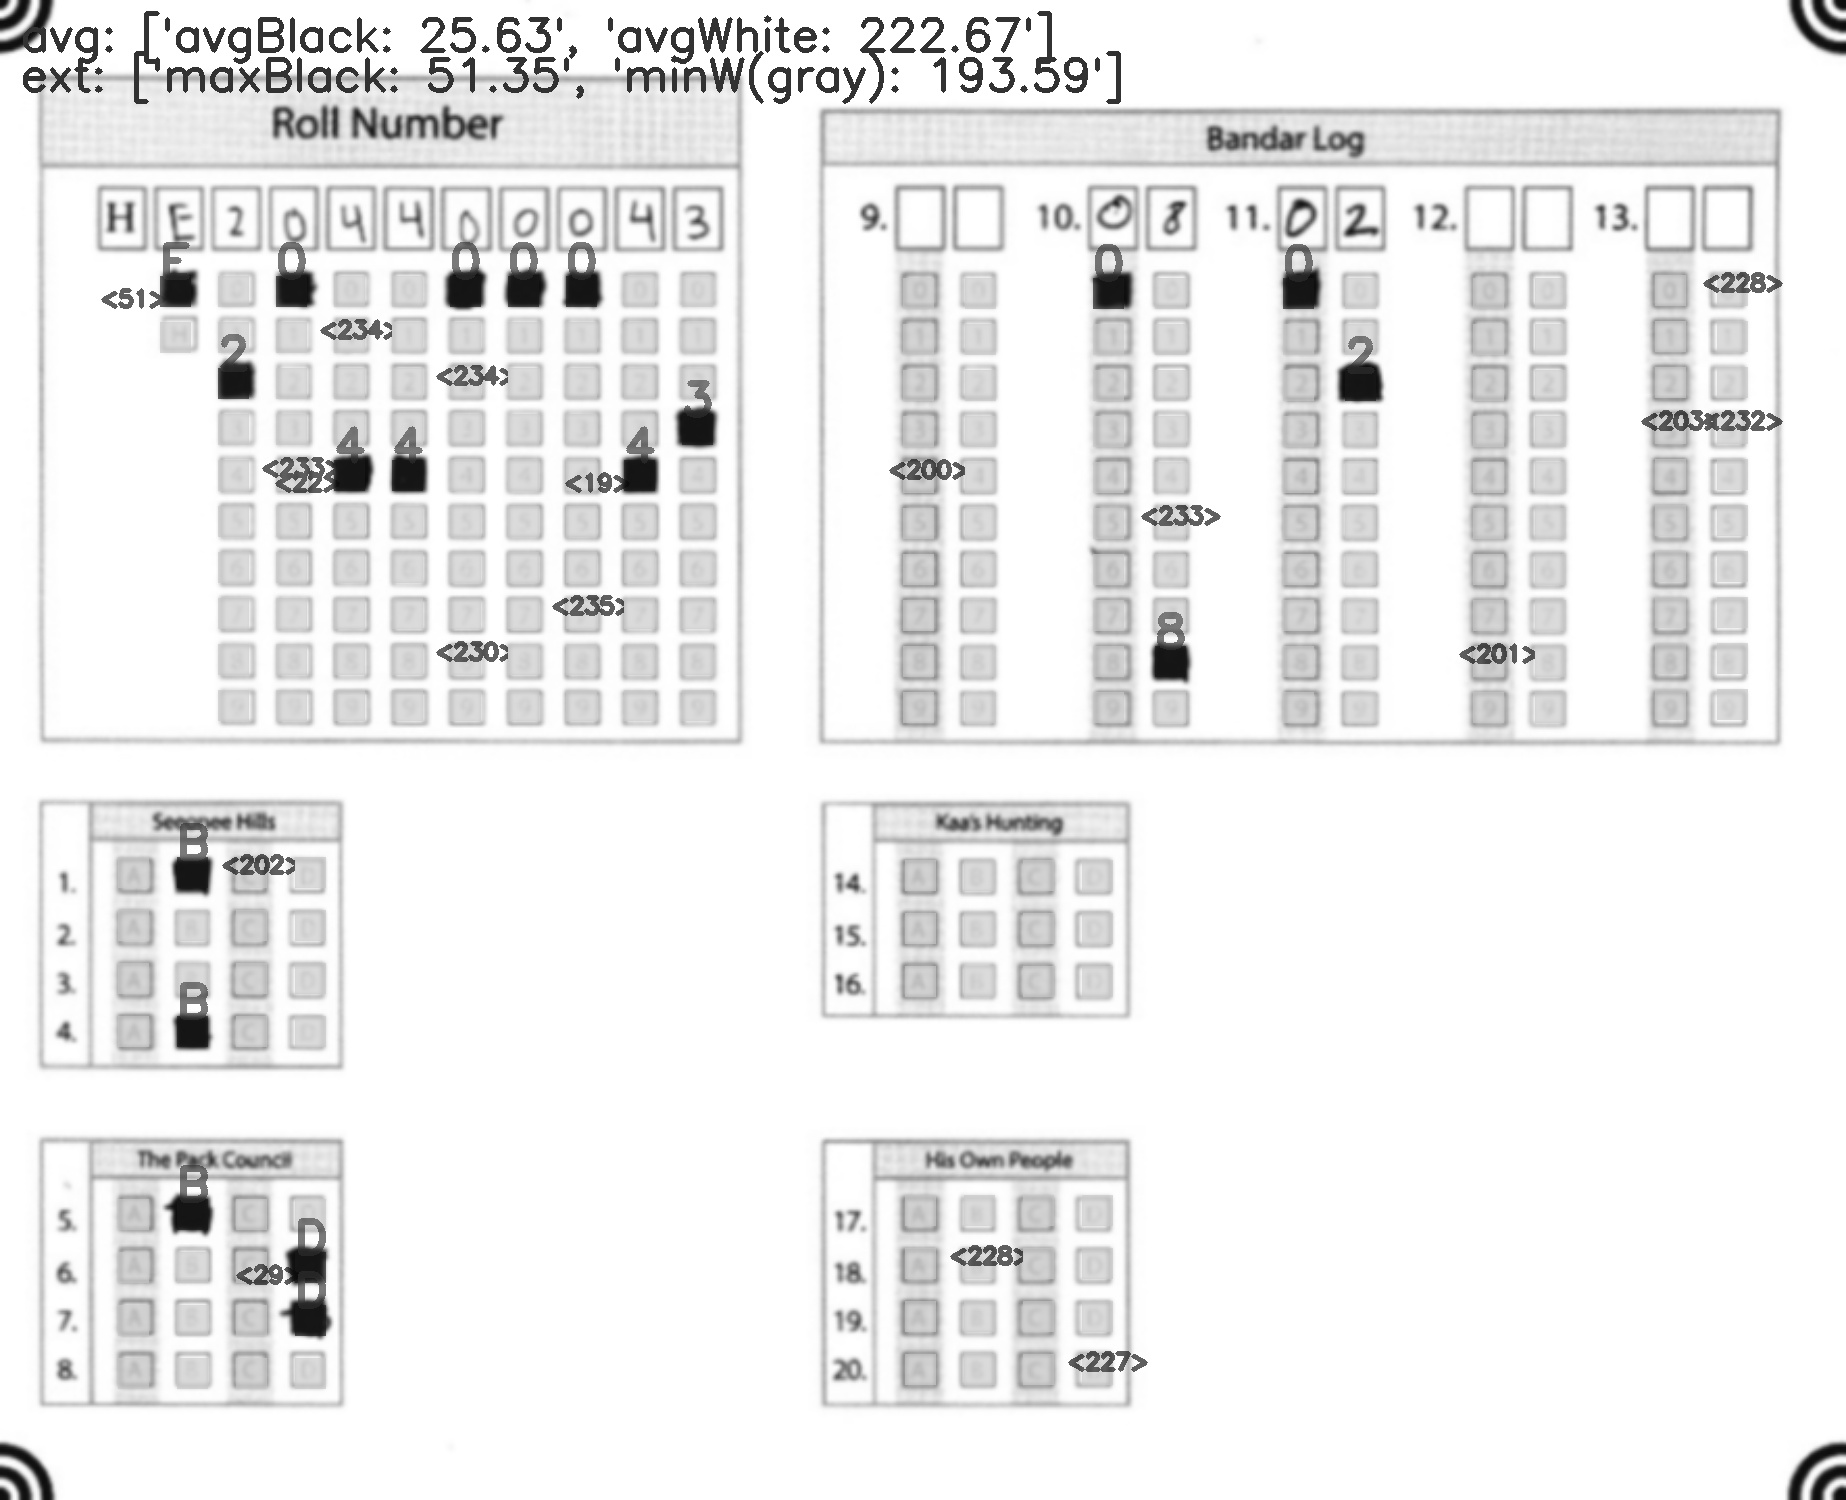
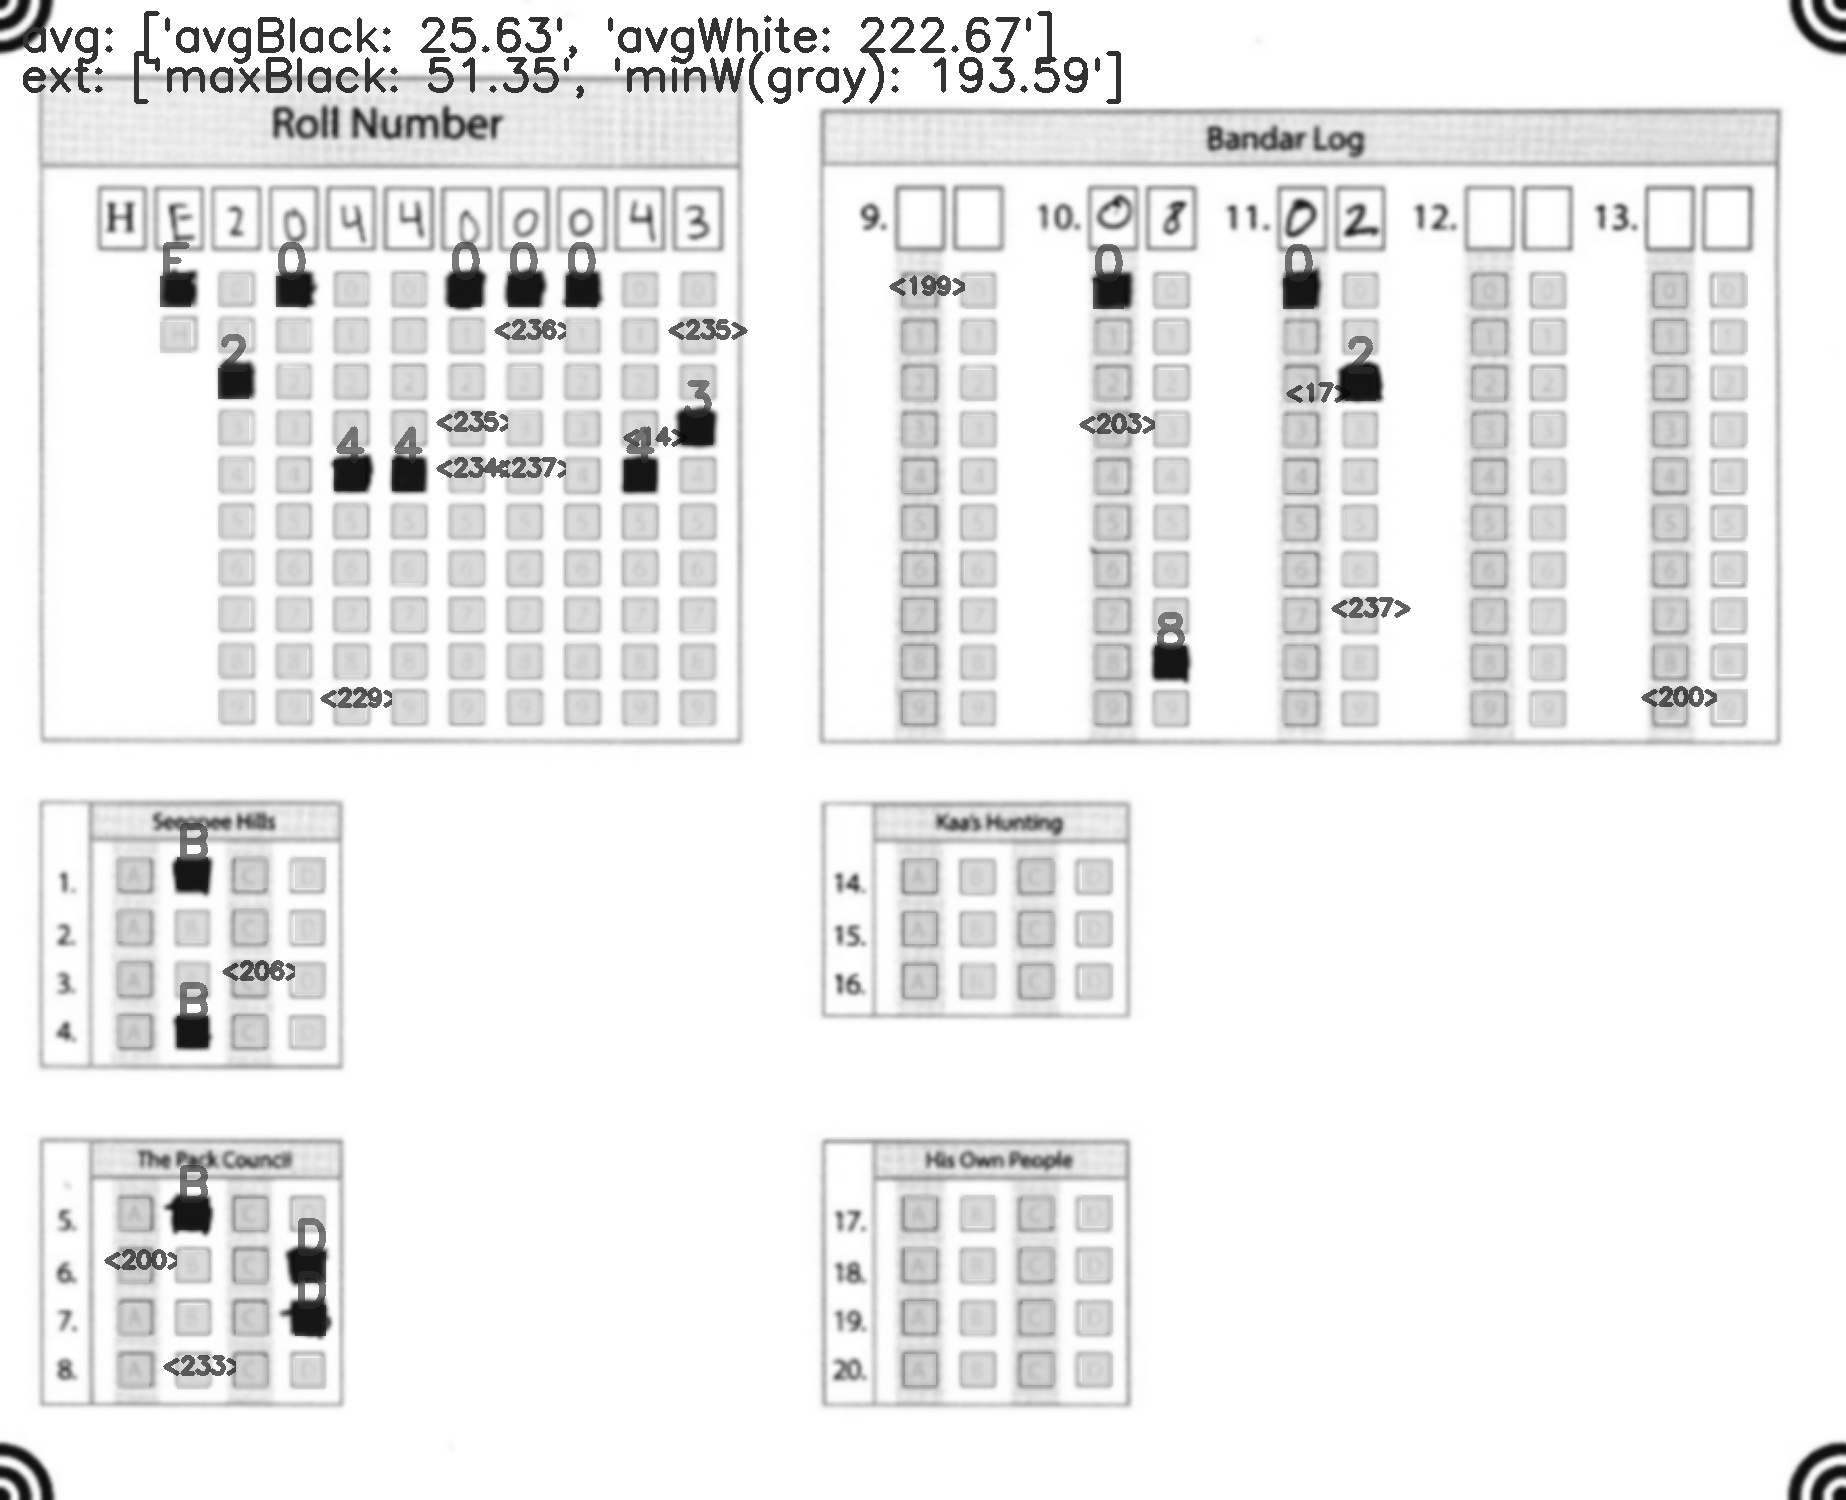
Per-image thresholding done

diff --git a/src/utils.py b/src/utils.py
@@ -441,9 +441,8 @@ def readResponse(squad,TEMPLATE,boxDim,image,name,save=None,thresholdRead=127.5,
         mask = 255*np.ones(boxDim, np.uint8)
         lang = ['E','H']
         OMRresponse={}
-        grey,skyblue=(0,0,0),(200,150,150)
-        clrs=[skyblue,grey]
-        clrs=[grey,skyblue]
+        black,grey=(0,0,0),(200,150,150)
+        clrs=[grey,black]
 
         multimarked,multiroll=0,0
         alpha=0.65
@@ -458,55 +457,82 @@ def readResponse(squad,TEMPLATE,boxDim,image,name,save=None,thresholdRead=127.5,
             # f, axes = plt.subplots(len(TEMPLATE)//2,sharey=True, sharex=True)
             # f.canvas.set_window_title(name)
             # f.suptitle("Questionwise Histogram")
+        
         # (1500, 1846)
         print("Cropped dim", img.shape)
+        
+        # Find the first 'big' jump and set it as threshold:
+        QVals=[]
+        for Que in TEMPLATE:
+            for pt in Que.pts:
+                QVals.append(cv2.mean(img[  pt.y:pt.y+h, pt.x:pt.x+w ],mask)[0])
+        
+        QVals= sorted(QVals)
+        l=len(QVals)-1
+        max1,thr1=0,255
+        for i in range(1,l):
+            jump = QVals[i+1] - QVals[i-1]
+            if(jump > max1):
+                max1=jump
+                thr1=QVals[i-1] + jump/2.7
+        # Make use of the fact that the JUMP_DELTA between values at detected jumps would be atleast 20
+        max2,thr2=0,255
+        # Requires atleast 1 gray box to be present (Roll field will ensure this)
+        for i in range(1,l):
+            jump = QVals[i+1] - QVals[i-1]
+            d2 = QVals[i-1] + jump/2.7          
+            if(jump > max2 and JUMP_DELTA < abs(thr1-d2)):
+                max2=jump
+                thr2=d2
+        # Updated threshold:
+        thresholdRead = min(thr1,thr2)
+        if(showimglvl>=1):
+            f, ax = plt.subplots() 
+            ax.bar(range(len(QVals)),QVals);
+            thrline=ax.axhline(thresholdRead,color='red',ls='--')
+            plt.show()
+
         for ctr,Que in enumerate(TEMPLATE):
             Qboxvals=[]
             for pt in Que.pts:
                 ptXY=(pt.x,pt.y)
                 x,y=ptXY
-                #Done - Here add the scan region for (y:y+h,x:x+w)
-                xminus,xplus= x-int(w/2),x+w-int(w/2) #supplementary point.
-                xminus2,xplus2= x+int(w/2),x+w+int(w/2) #supplementary point.
-                yminus,yplus= y-int(h/2),y+h-int(h/2) #supplementary point.
-                yminus2,yplus2= y+int(h/3),y+h+int(h/3) #supplementary point.
-                # print(img.shape, xminus,xplus,y,y+h)
-                mean_color = cv2.mean(img[  y : y+h,x : x+w   ],mask)
-                mean_color2 = cv2.mean(img[ y : y+h,xminus : xplus    ],mask)
-                mean_color3 = cv2.mean(img[ y : y+h,xminus2 : xplus2  ],mask)
-                mean_color4 = cv2.mean(img[ yminus : yplus,x : x+w     ],mask)
-                mean_color5 = cv2.mean(img[ yminus2 : yplus2,x : x+w     ],mask)
-                boxval = mean_color[0]            
+
+                # Supplimentary points
+                xminus,xplus= x-int(w/2),x+w-int(w/2) 
+                xminus2,xplus2= x+int(w/2),x+w+int(w/2) 
+                yminus,yplus= y-int(h/2.7),y+h-int(h/2.7) 
+                yminus2,yplus2= y+int(h/2.7),y+h+int(h/2.7) 
+
+                #  This Plus method is better than having bigger box as gray would also get marked otherwise. Bigger box is rather an invalid alternative.
+                check_rects = [ 
+                    [y,y+h,x,x+w], 
+                    # [yminus,yplus,x,x+w], 
+                    # [yminus2,yplus2,x,x+w], 
+                    # [y,y+h,xminus,xplus], 
+                    # [y,y+h,xminus2,xplus2], 
+                ]
+                
+                detected=False
+                for rect in check_rects:
+                    boxval = cv2.mean(img[  rect[0]:rect[1] , rect[2]:rect[3] ],mask)[0]
+                    if(thresholdRead > boxval):
+                        detected=True
+                    # retimg = cv2.rectangle(retimg,(rect[2],rect[0]),(rect[3],rect[1]),clrs[int(detected)],bord)                    
+                    if(detected):break;
+
+                if(not detected): 
+                    #reset boxval to first rect 
+                    rect = check_rects[0]
+                    boxval = cv2.mean(img[  rect[0]:rect[1] , rect[2]:rect[3] ],mask)[0]
+                
                 #for hist
                 Qboxvals.append(boxval)
 
-                detected1=(thresholdRead > boxval)
-                threshold2 = thresholdRead + 38.25 if detected1 else thresholdRead
-                detected2=(threshold2 > mean_color2[0])
-                threshold3 = thresholdRead + 38.25 if (detected2 or detected1) else thresholdRead
-                detected3=(threshold3 > mean_color3[0])
-                threshold4 = thresholdRead + 38.25 if (detected3 or detected2 or detected1) else thresholdRead
-                detected4=(threshold4 > mean_color4[0])
-                threshold5 = thresholdRead + 38.25 if (detected4 or detected3 or detected2 or detected1) else thresholdRead
-                detected5=(threshold5 > mean_color5[0])
+                retimg = cv2.rectangle(retimg,(x,y),(x+w,y+h),clrs[int(detected)],bord)
 
-
-                # TODO: fix this- all detecteds should be considered
-                if(detected1):
+                if (detected):
                     blackTHRs.append(boxval)
-                else:
-                    whiteTHRs.append(boxval)
-                    
-                clr= black if detected1 else white
-
-                # retimg = cv2.rectangle(retimg,(x,yminus2),(x+w,yplus2),clrs[int(detected5)],bord)#-1 is for fill
-                # retimg = cv2.rectangle(retimg,(x,yminus),(x+w,yplus),clrs[int(detected4)],bord)#-1 is for fill
-                # retimg = cv2.rectangle(retimg,(xminus2,y),(xplus2,y+h),clrs[int(detected3)],bord)#-1 is for fill
-                # retimg = cv2.rectangle(retimg,(xminus,y),(xplus,y+h),clrs[int(detected2)],bord)#-1 is for fill
-
-                retimg = cv2.rectangle(retimg,(x,y),(x+w,y+h),clr,bord)#-1 is for fill
-
-                if (detected1 or detected2 or detected3 or detected4 or detected5):
         #             try:
                     q = Que.qNo
                     val = pt.val
@@ -536,14 +562,17 @@ def readResponse(squad,TEMPLATE,boxDim,image,name,save=None,thresholdRead=127.5,
                     cv2.putText(retimg,str(OMRresponse[key1][key2]),ptXY,cv2.FONT_HERSHEY_SIMPLEX, CV2_FONTSIZE,(50,20,10),5)
                     
                     if(np.random.randint(0,10)==0):
-                        cv2.putText(retimg,"<"+str(int(boxval))+">",(x-2*w,y+h),cv2.FONT_HERSHEY_SIMPLEX, CV2_FONTSIZE/2,(10,10,10),3)
+                        cv2.putText(retimg,"["+str(int(boxval))+"]",(x-2*w,y+h),cv2.FONT_HERSHEY_SIMPLEX, CV2_FONTSIZE/2,(10,10,10),3)
                                  
         #             except:
         #                 #No dict key for that point
         #                 print(pt,'This shouldnt print after debugs')
-                # endif detected
-                elif(np.random.randint(0,20)==0):
-                    cv2.putText(retimg,"<"+str(int(boxval))+">",(x-w//2,y+h//2),cv2.FONT_HERSHEY_SIMPLEX, CV2_FONTSIZE/2,(10,10,10),3)
+                
+                # // if(detected)
+                else:
+                    whiteTHRs.append(boxval)                    
+                    if(np.random.randint(0,20)==0):
+                        cv2.putText(retimg,"["+str(int(boxval))+"]",(x-w//2,y+h//2),cv2.FONT_HERSHEY_SIMPLEX, CV2_FONTSIZE/2,(10,10,10),3)
             
             if(showimglvl>=1):
                 # For int types:
@@ -553,6 +582,7 @@ def readResponse(squad,TEMPLATE,boxDim,image,name,save=None,thresholdRead=127.5,
                 if(Que.qType == QTYPE_INT or Que.qType == QTYPE_MCQ):
                     qNums[Que.qType].append(Que.qNo)
                     allQboxvals[Que.qType].append(Qboxvals)
+        
         if(showimglvl>=1):
             # plt.draw()
             f, axes = plt.subplots(len(allQboxvals),sharey=True)

diff --git a/mini_scripts/check_hist.py b/mini_scripts/check_hist.py
@@ -3,7 +3,7 @@ import cv2
 import numpy as np
 from matplotlib import pyplot as plt
 # 1: View without saving, 2: Save files without showing
-review=0;
+review=1;
 
 # dir_glob ='../src/images/OMR_Files'+'/*/*/*/*.jpg'
 dir_glob ='hist_inputs'+'/*.jpg'
@@ -45,9 +45,10 @@ def plot_hist(img):
 	plt.legend(('cdf','histogram'),loc='upper left')
 	plt.show()
 
-from sklearn.preprocessing import minmax_scale
-def normalize(img):
+def normalize(img):	
 	img = cv2.normalize(img, None, alpha=0, beta=255, norm_type=cv2.NORM_MINMAX, dtype=cv2.CV_32F)
+	
+	# from sklearn.preprocessing import minmax_scale
 	# img = minmax_scale(img,feature_range=(0,255),copy=False)
 
 	"""
@@ -66,6 +67,7 @@ def stitch(img1,img2):
 	return np.concatenate((img1,img2),axis=1)
 
 allOMRs= glob.iglob(dir_glob)
+clahe = cv2.createCLAHE(clipLimit=3.0, tileGridSize=(30,30))
 for filepath in allOMRs:
 	print (filepath)
 	img=cv2.imread(filepath, cv2.IMREAD_GRAYSCALE) # cv2.IMREAD_GRAYSCALE= 0 reads in grayscale
@@ -75,9 +77,12 @@ for filepath in allOMRs:
 	orig=img.copy()
 	if(review):
 		show(img,wait=False)
-		plot_hist(img);
+		# plot_hist(img);
+		img2 = clahe.apply(img)	
 		normalize(img);
+		show(img2, wait=False)
 		show(img)
+		plot_hist(img2);
 		plot_hist(img);
 	else:
 		normalize(img);

diff --git a/mini_scripts/barplotTHR.py b/mini_scripts/barplotTHR.py
@@ -1,0 +1,31 @@
+
+QVals= sorted(QVals)
+l=len(QVals)-1
+# Find the first 'big' jump and set it as threshold:
+# Nope, won't make it automatic - Becomes much easier and safer if guided i.e. given base threshold for black
+# --> Find top two jumps at 3 point gap, choose the one with lower value of middle point.
+# There's still a change of 'too many responses' situation
+# Make use of the fact that the delta between values at detected jumps would be atleast 20
+max1,thr1=0,255
+for i in range(1,l):
+    jump = QVals[i+1] - QVals[i-1]
+    if(jump > max1):
+        max1=jump
+        thr1=QVals[i-1] + jump/2
+
+delta=20
+max2,thr2=0,255
+for i in range(1,l):
+    jump = QVals[i+1] - QVals[i-1]
+    d2 = QVals[i-1] + jump/2                
+    if(jump > max2 and delta < abs(thr1-d2)):
+        max2=jump
+        thr2=d2
+
+thresholdRead = min(thr1,thr2)
+# blackTHRs.pb
+f, ax = plt.subplots() 
+thrline=ax.axhline(thresholdRead,color='red',ls='--')
+thrline.set_label("newTHR")
+ax.bar(range(len(QVals)),QVals);
+plt.show()

diff --git a/src/constants.py b/src/constants.py
@@ -30,9 +30,12 @@ minWhiteTHR,maxBlackTHR=255,0
 stitched = 0;
 
 # For normal images
-thresholdRead_L =  60#116
+thresholdRead_L =  116
 # For already normalized(contrasted) images
 thresholdRead_R =  60
+
+# For new ways of determining threshold
+JUMP_DELTA=20
 
 thresholdCircle= 0.55 #matchTemplate returns 0 to 1
 scaleRange=(0.75,0.95)

diff --git a/src/main.py b/src/main.py
@@ -24,6 +24,7 @@ window=gtk.Window()
 screen = window.get_screen()
 
 
+
 # cv2.createTrackbar('boxDimY', 'imageWindow', 6, 10, someFunctionCallBack)
 # waitQ()
 """

diff --git a/README.md b/README.md
@@ -11,6 +11,7 @@ A full-fledged OMR checking software that can read and evaluate OMR sheets scann
 > Can you plot the threshold distribution? _/_/
 
 [ ] For shifted templ: Find out methods to force align on rectangular strips
+	> Will need edge detection here?!
 
 > Prob- some given scans also have negligible bg strips
 
@@ -59,7 +60,7 @@ A full-fledged OMR checking software that can read and evaluate OMR sheets scann
 | Choosing ROI     | 4 Opaque squares  | [4 circles] | Sidebars          |   			|
 | Setting Template | Individual Points | Q-wise      | [QRectangle-wise] |   			|
 | Resolution       | High scaledown    | [Scaledown] | Original      	 |  Scaled Up   |
-| Thresholding     | [Type-Fixed]      | Tone-based* | Fixed             |   			|
+| Thresholding     | [per-Img marginal]| Tone-based* | Fixed             | 	 			|
 
 * to be achieved
 
